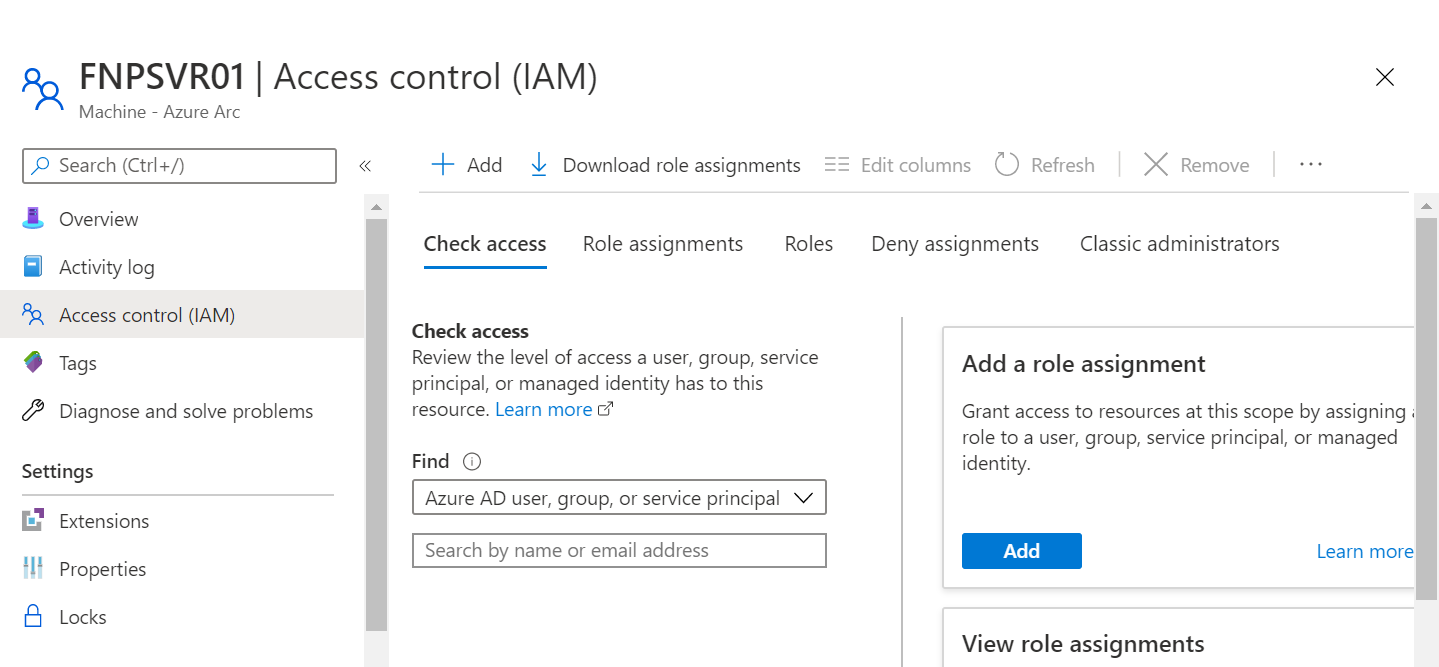
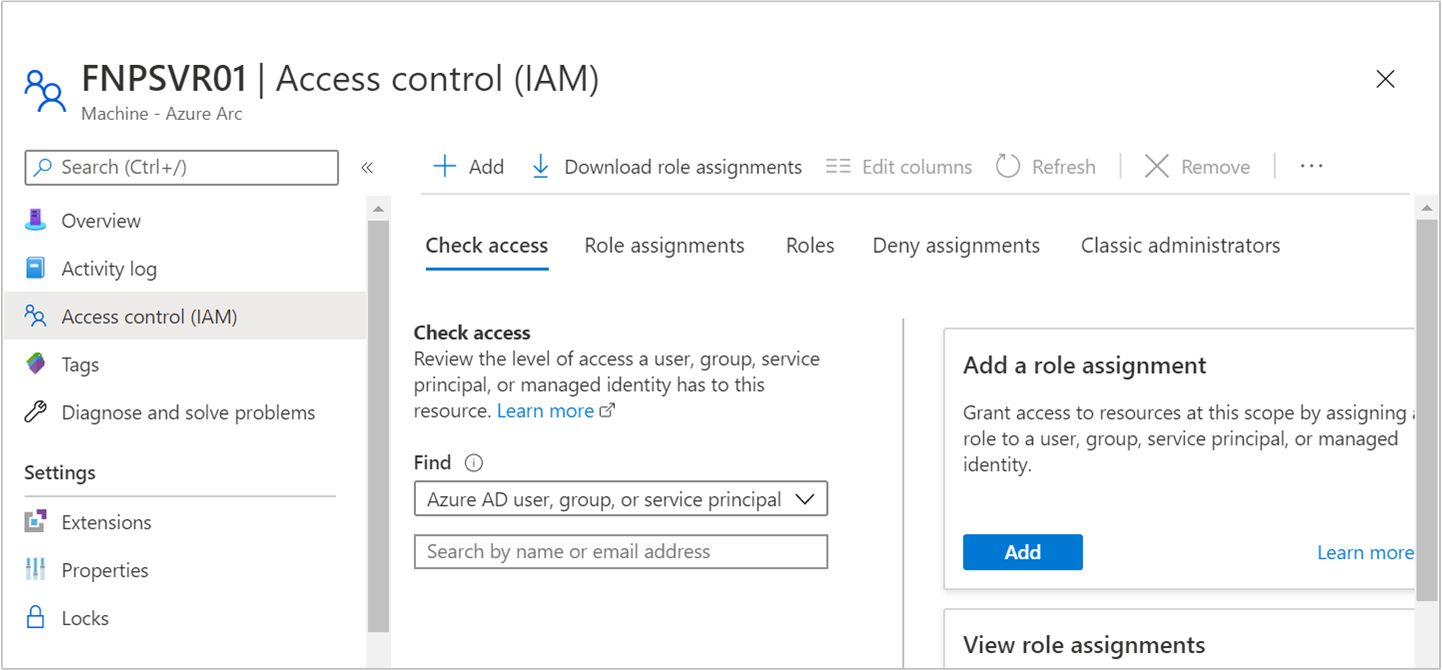
fixed formatting issue

diff --git a/articles/azure-arc/servers/security-considerations.md b/articles/azure-arc/servers/security-considerations.md
@@ -11,7 +11,7 @@ This article describes the security configuration and considerations you should 
 
 ## Identity and access control
 
-Each Azure Arc enabled server has a managed identity as part of a resource group inside an Azure subscription that represents the server running on-premises or other cloud environment. Access to this resource is controlled by standard [Azure role-based access control](../../role-based-access-control/overview.md). From the [**Access Control (IAM)**](../../role-based-access-control/role-assignments-portal.md#access-control-iam) page in the Azure portal, you can verify who has access to your Azure Arc enabled server.
+Each Azure Arc enabled server has a managed identity as part of a resource group inside an Azure subscription that represents the server running on-premises or other cloud environment. Access to this resource is controlled by standard [Azure role-based access control](../../role-based-access-control/overview.md). From the [**Access Control (IAM)**](../../role-based-access-control/role-assignments-portal.md#access-control-iam) page in the Azure portal, you can verify who has access to your Azure Arc enabled server.
 
 :::image type="content" source="./media/security-considerations/access-control-page.png" alt-text="Azure Arc enabled server access control" border="false":::
 
@@ -39,7 +39,7 @@ While the Hybrid Instance Metadata Service (himds) can be accessed by any applic
 
 * On Windows, the caller must be a member of the local **Administrators** group or the **Hybrid Agent Extension Applications** group to read the blob.
 
-* On Linux, the caller must be a member of the **himds** group to read the blob. 
+* On Linux, the caller must be a member of the **himds** group to read the blob.
 
 ## What the Azure Active Directory system assigned identity can manage
 
@@ -48,3 +48,5 @@ By default, the Azure Active Directory system assigned identity used by Arc can 
 ## Using disk encryption
 
 The Azure Connected Machine agent (azcmagent) uses public key authentication to communicate with the Azure service. After you onboard a server to Azure Arc, a private key is saved to the disk and used whenever the agent communicates with Azure. If stolen, the private key can be used on another server to communicate with the service and act as if it were the original server. This includes getting access to the system assigned identity and any resources that identity has access to. The private key file is protected to only allow the **himds** account access to read it. To prevent offline attacks, we strongly recommend the use of full disk encryption (for example, BitLocker, dm-crypt, etc.) on the operating system volume of your server.
+
+## Next steps
